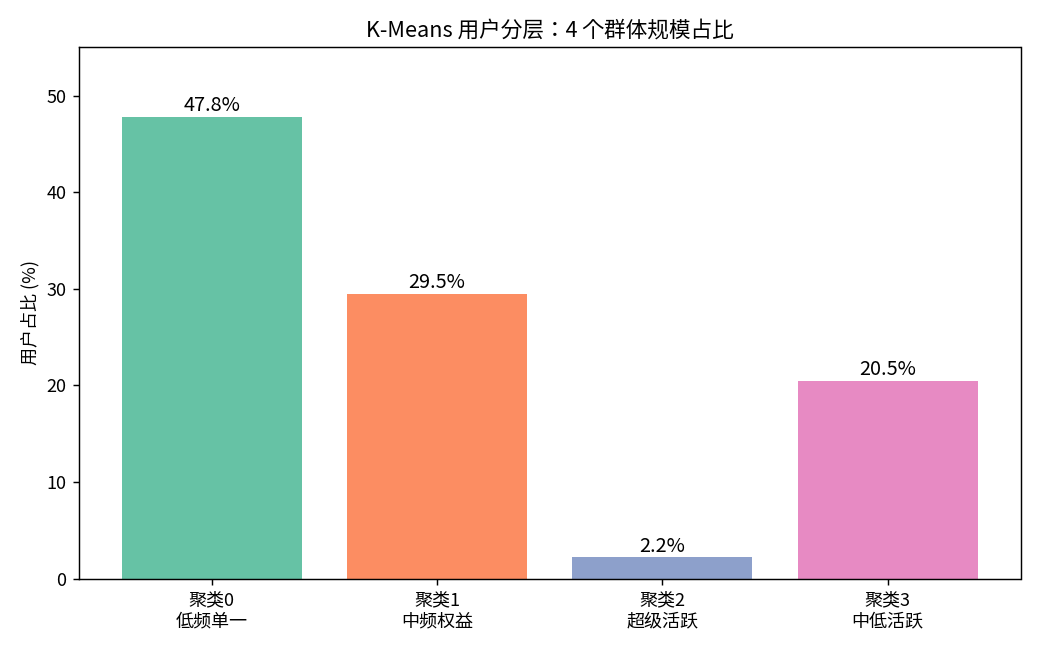
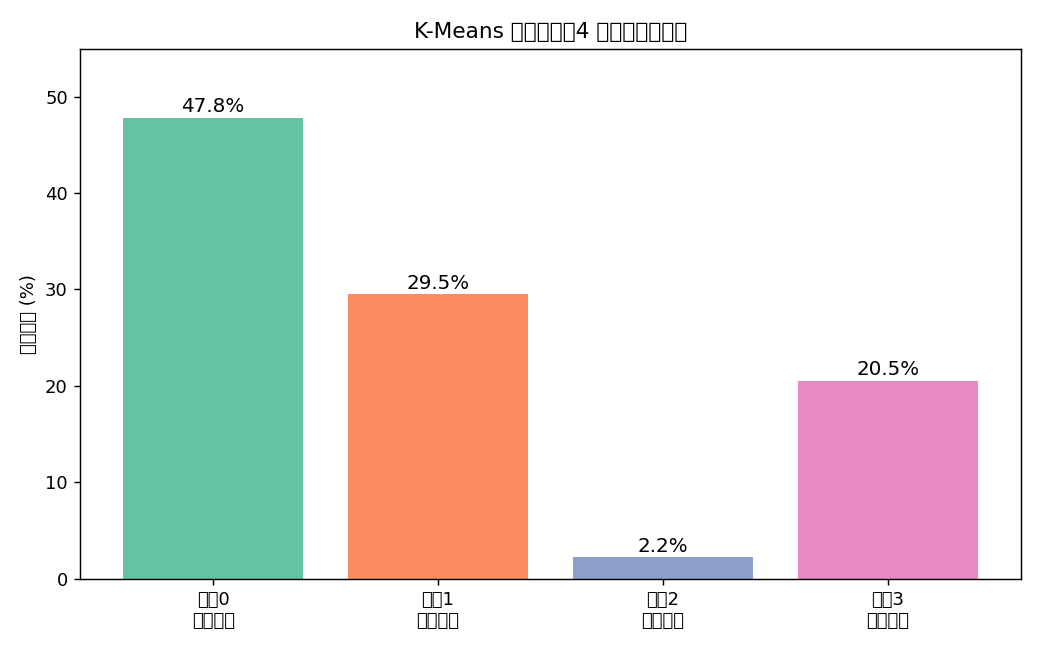
generate_charts 字体设置与主流程保持一致

diff --git a/src/generate_charts.py b/src/generate_charts.py
@@ -5,36 +5,11 @@ import pandas as pd
 import matplotlib
 matplotlib.use("Agg")
 import matplotlib.pyplot as plt
-from matplotlib import font_manager
 from sklearn.preprocessing import StandardScaler
 from sklearn.cluster import KMeans
 
-# ---- 中文字体：直接找系统里的中文字体文件并注册，避免中文变方框 ----
-def _setup_cjk_font():
-    candidates = [
-        "/usr/share/fonts/opentype/noto/NotoSansCJK-Regular.ttc",
-        os.path.expanduser("~/.fonts/NotoSansCJK.ttc"),
-        r"C:\Windows\Fonts\msyh.ttc",     # 微软雅黑
-        r"C:\Windows\Fonts\msyh.ttf",
-        r"C:\Windows\Fonts\simhei.ttf",   # 黑体
-        r"C:\Windows\Fonts\simsun.ttc",   # 宋体
-        "/System/Library/Fonts/PingFang.ttc",
-        "/System/Library/Fonts/STHeiti Medium.ttc",
-    ]
-    for fp in candidates:
-        if os.path.exists(fp):
-            try:
-                font_manager.fontManager.addfont(fp)
-                plt.rcParams["font.sans-serif"] = [
-                    font_manager.FontProperties(fname=fp).get_name()]
-                return
-            except Exception:
-                continue
-    plt.rcParams["font.sans-serif"] = ["Microsoft YaHei", "SimHei", "PingFang SC"]
-
-
-_setup_cjk_font()
-plt.rcParams["axes.unicode_minus"] = False
+plt.rcParams['font.sans-serif'] = ['Microsoft YaHei', 'SimHei', 'PingFang SC', 'Noto Sans CJK SC', 'Arial Unicode MS']
+plt.rcParams['axes.unicode_minus'] = False
 
 HERE = os.path.dirname(os.path.abspath(__file__))
 ROOT = os.path.abspath(os.path.join(HERE, ".."))
